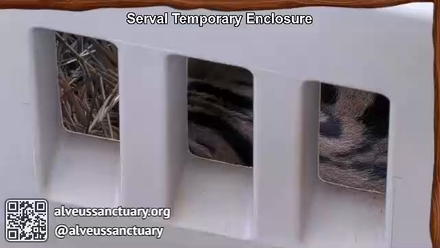
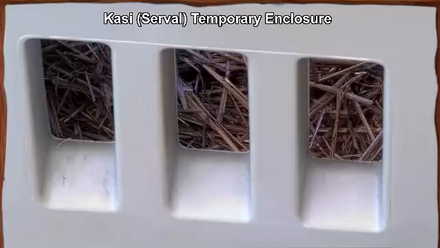
Update presets data (#2082)

diff --git a/apps/website/src/data/presets/serval.ts b/apps/website/src/data/presets/serval.ts
@@ -19,6 +19,7 @@ import rightplatformb from "@/assets/presets/serval/rightplatformb.png";
 import rightwide from "@/assets/presets/serval/rightwide.png";
 import sand from "@/assets/presets/serval/sand.png";
 import tub from "@/assets/presets/serval/tub.png";
+import tubb from "@/assets/presets/serval/tubb.png";
 import waterl from "@/assets/presets/serval/waterl.png";
 import waterr from "@/assets/presets/serval/waterr.png";
 import wide from "@/assets/presets/serval/wide.png";
@@ -59,8 +60,8 @@ const servalPresets: Record<string, Preset> = {
   insidecrate: {
     description: "insidecrate",
     image: insidecrate,
-    position: { pan: -68.37, tilt: -58.36, zoom: 3174 },
-    // modified: 2026-04-18T16:14:28.097Z
+    position: { pan: -63.96, tilt: -57.51, zoom: 3174 },
+    // modified: 2026-05-12T19:48:50.588Z
   },
   left: {
     description: "left",
@@ -151,6 +152,12 @@ const servalPresets: Record<string, Preset> = {
     image: tub,
     position: { pan: -141.53, tilt: -43.78, zoom: 89 },
     // modified: 2026-04-03T16:40:45.015Z
+  },
+  tubb: {
+    description: "tubb",
+    image: tubb,
+    position: { pan: -143.88, tilt: -59.94, zoom: 1 },
+    // modified: 2026-05-12T22:00:13.110Z
   },
   waterl: {
     description: "waterl",
